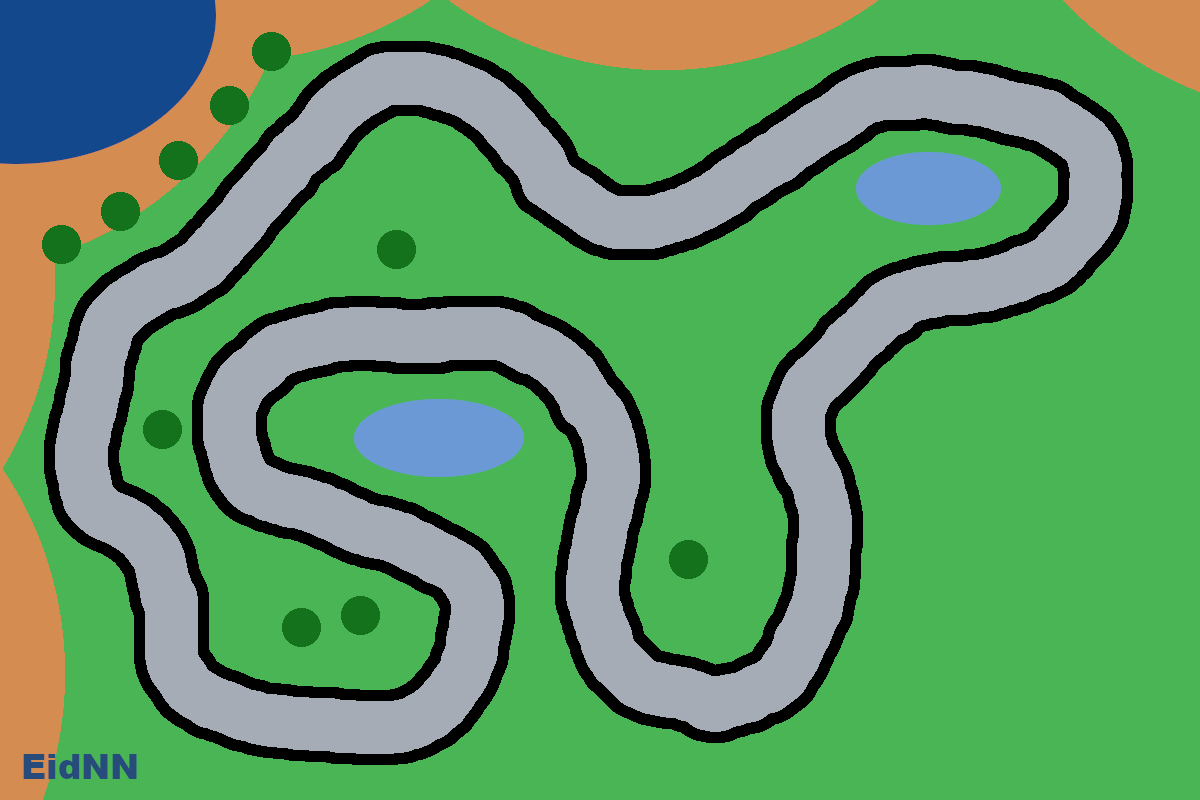
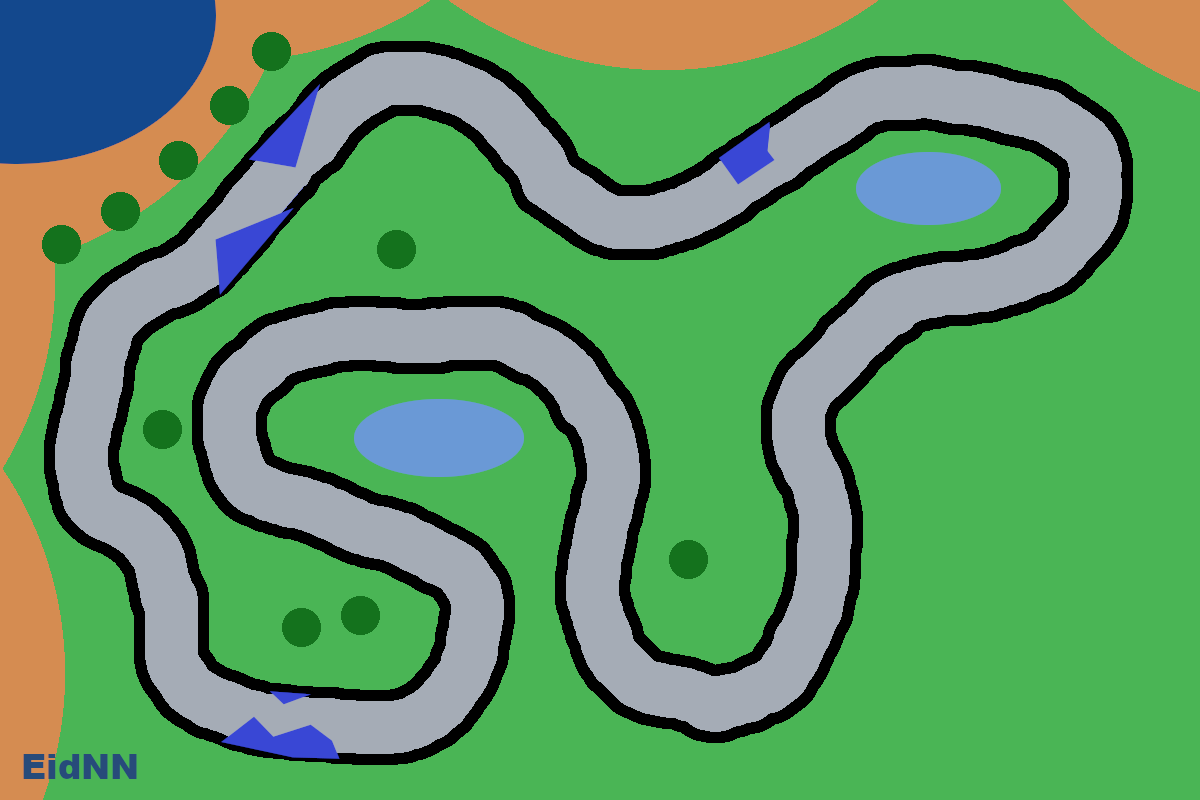
Dynamic obstacle

diff --git a/examples/lernfahrer/car.cpp b/examples/lernfahrer/car.cpp
@@ -7,7 +7,7 @@
 #include <Eigen/Geometry>
 
 Car::Car(): m_rotationToOriginal(0.0), m_mapSet(false), m_droveDistance(0.0),
-    m_formerDistance(0.0), m_accumulatedRotation(0.0)
+    m_formerDistance(0.0), m_accumulatedRotation(0.0), m_carSize{4}
 {
     setSpeed( 0.0 );
     setPosition( Eigen::Vector2d(0.0, 0.0));
@@ -94,6 +94,8 @@ void Car::update()
     m_droveDistance += (newPosition - getPosition()).norm();
     m_accumulatedRotation += std::abs(thisRotation);
 
+    // important: measure distances before navigate and post move collision
+    m_measuredDistances = measureDistances();
     navigate();
 
     // update
@@ -159,13 +161,25 @@ Eigen::Vector2d Car::handleCollision(const Eigen::Vector2d& from, const Eigen::V
 
     double tillEdge = distanceToEdge(from,du);
 
-    if( tillEdge < l ) // collision
+    if( tillEdge < l + m_carSize ) // collision
     {
         m_alive = false;
         return from;
     }
 
     return to;
+}
+
+void Car::handlePostMoveCollision()
+{
+    for(size_t k = 0; k < m_measuredDistances.rows(); k++)
+    {
+        if( m_measuredDistances(k,0) < m_carSize )
+        {
+            this->kill();
+            return;
+        }
+    }
 }
 
 double Car::distanceToEdge(const Eigen::Vector2d &pos, const Eigen::Vector2d &direction) const
@@ -245,7 +259,6 @@ void Car::considerSuicide()
 void Car::navigate()
 {
     // decide what to do next
-    m_measuredDistances = measureDistances();
     Eigen::MatrixXd nnInput = m_measuredDistances.col(0);
     nnInput.conservativeResize(m_measuredDistances.rows()+1, 1); // additional input for speed
     nnInput(nnInput.rows()-1,0) = m_speed;

diff --git a/examples/lernfahrer/wald.cpp b/examples/lernfahrer/wald.cpp
@@ -19,24 +19,19 @@ void Wald::draw(QPainter *painter, const std::vector<SimulationPtr > &simRes)
     drawMap(painter);
 
     // draw moving obstacle
-    size_t obstWidth = 30;
-    size_t obstHeight = 40;
-    size_t obstStartPosX = 90;
-    size_t obstStartPosY = 330;
-    size_t obstaclePos = std::sin(m_anim) * 20.0 + obstStartPosX;
-
-    m_anim = m_anim + 0.04;
-
     Eigen::MatrixXi newDynMap = m_trackMap->createAllValidMap();
 
-    for( size_t m = 0; m < obstHeight; m++ )
-        for( size_t n = 0; n < obstWidth; n++ )
-            newDynMap(obstStartPosY+m, obstaclePos+n) = 0;
+    size_t obstStartPosX = 90;
+    size_t obstStartPosY = 330;
+    size_t movingDist = 20;
+
+    size_t obstaclePos = std::sin(m_anim) * movingDist/2.0 + obstStartPosX;
+    m_anim = m_anim + 0.03;
+    addDynamicSquare(painter, newDynMap, obstaclePos, obstStartPosY, 40, 40);
+    addDynamicSquare(painter, newDynMap, obstaclePos+10, obstStartPosY+40, 20, 20);
 
     m_trackMap->setDynamicMap(newDynMap);
 
-    painter->setBrush(QBrush(Qt::blue));
-    painter->drawRect(QRect(obstaclePos,obstStartPosY,obstWidth,obstHeight));
 
     drawAllCars(painter, simRes);
 }

diff --git a/examples/lernfahrer/glwidget.cpp b/examples/lernfahrer/glwidget.cpp
@@ -95,7 +95,7 @@ void GLWidget::startRace(std::shared_ptr<Track> t)
     }
     else
     {
-        m_evo.reset( new Evolution(1200, 100, t->getFactory(), 12) );
+        m_evo.reset( new Evolution(1200, 100, t->getFactory(), 8) );
     }
 
     m_doSimulation = true;
@@ -117,7 +117,7 @@ void GLWidget::initTracks()
     m_tracks.push_back(std::shared_ptr<Track>(new Wald("Wald", ":/tracks/track4.png")));
     m_tracks.push_back(std::shared_ptr<Track>(new Strange("Strange", ":/tracks/track5.png")));
 
-    m_currentTrackIdx = 0;
+    m_currentTrackIdx = 1;
     startRace(m_tracks.at(m_currentTrackIdx));
 }
 

diff --git a/examples/lernfahrer/track.cpp b/examples/lernfahrer/track.cpp
@@ -106,3 +106,13 @@ void Track::drawCar(QPainter *painter, std::shared_ptr<Car> car, QColor color)
     }
 }
 
+void Track::addDynamicSquare(QPainter *painter, Eigen::MatrixXi &dynMap, size_t px, size_t py, size_t width, size_t height)
+{
+    for( size_t m = 0; m < height; m++ )
+        for( size_t n = 0; n < width; n++ )
+            dynMap(py+m, px+n) = 0;
+
+    painter->setBrush(QBrush(Qt::blue));
+    painter->drawRect(QRect(px,py,width,height));
+}
+

diff --git a/examples/lernfahrer/car.h b/examples/lernfahrer/car.h
@@ -64,6 +64,7 @@ public:
 private:
     void update() override;
     Eigen::Vector2d handleCollision(const Eigen::Vector2d& from, const Eigen::Vector2d& to);
+    void handlePostMoveCollision();
     Eigen::MatrixXd measureDistances() const;
     void considerSuicide();
     void navigate();
@@ -89,6 +90,8 @@ private:
 
     QTime m_killer;
     double m_formerDistance;
+
+    double m_carSize;
 };
 
 #endif //EIDNN_CAR_H

diff --git a/examples/lernfahrer/track.h b/examples/lernfahrer/track.h
@@ -32,6 +32,7 @@ protected:
     void drawMap(QPainter* painter);
     void drawCar(QPainter* painter, std::shared_ptr<Car> car, QColor color);
     void drawAllCars(QPainter *painter, const std::vector<SimulationPtr>& simRes);
+    void addDynamicSquare(QPainter *painter, Eigen::MatrixXi &dynMap, size_t px, size_t py, size_t width, size_t height);
 
 protected:
     QString m_name;

diff --git a/examples/lernfahrer/wald.h b/examples/lernfahrer/wald.h
@@ -12,7 +12,6 @@ class Wald: public Track
 public:
     Wald(const QString &name, const QString &rscPath);
     virtual ~Wald();
-
     void draw(QPainter *painter, const std::vector<SimulationPtr > &simRes) override;
 
 private:
